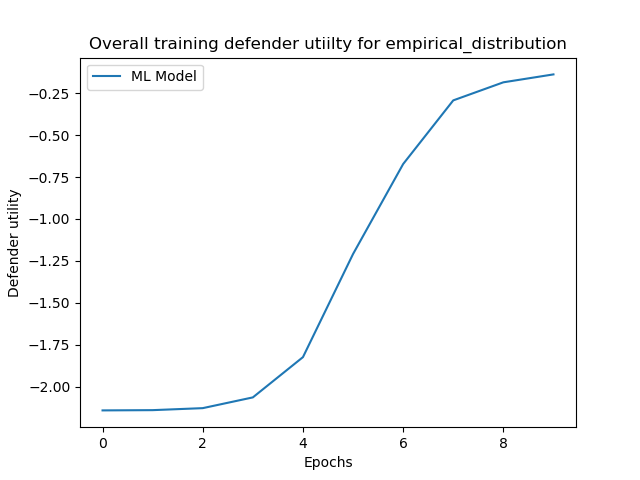
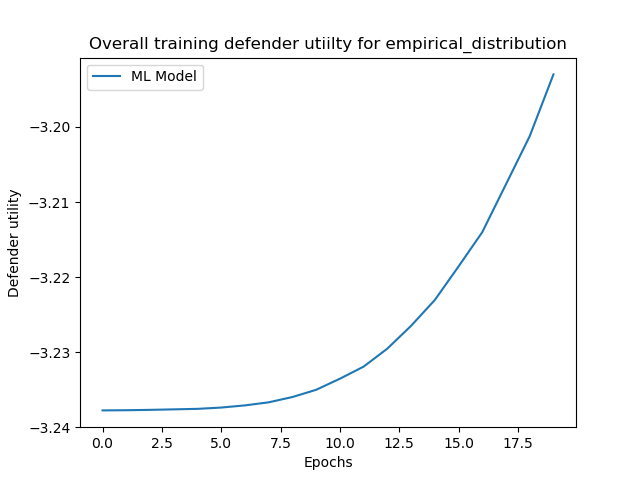
0623

diff --git a/graphData.py b/graphData.py
@@ -76,30 +76,40 @@ def generateFeatures(G, feature_length):
             Fv[node]=G.node[node]['node_features']
     return Fv        
 
-def generatePhi(G, possible_ranges=[(0,1), (2,5), (5,10)]):
+def generatePhi(G, possible_ranges=[(0,1), (2,5), (5,10)], fixed_phi=False):
     
     N= nx.number_of_nodes(G)
     sources=G.graph['sources']
     targets=G.graph['targets']
     
-    for node in list(G.nodes()):
-        
-        if node in sources:
-            range_of_phi=possible_ranges[0]
-        elif node in targets:
-            range_of_phi=possible_ranges[-1]
-        else:
-            range_of_phi=possible_ranges[1]
-        #node_features=np.random.randn(feature_length)
-        # TODO: Use a better feature computation for a given node
-        #r=np.random.choice(len(possible_ranges))
-        #range_of_phi=possible_ranges[r]
-        lower_bounds=range_of_phi[0]
-        upper_bounds=range_of_phi[1]
-        node_phi=np.random.uniform(lower_bounds, upper_bounds)
-        G.node[node]['node_phi']=node_phi
+    if not fixed_phi:
+        for node in list(G.nodes()):
+            
+            if node in sources:
+                range_of_phi=possible_ranges[0]
+            elif node in targets:
+                range_of_phi=possible_ranges[-1]
+            else:
+                range_of_phi=possible_ranges[1]
+            #node_features=np.random.randn(feature_length)
+            # TODO: Use a better feature computation for a given node
+            #r=np.random.choice(len(possible_ranges))
+            #range_of_phi=possible_ranges[r]
+            lower_bounds=range_of_phi[0]
+            upper_bounds=range_of_phi[1]
+            node_phi=np.random.uniform(lower_bounds, upper_bounds)
+            G.node[node]['node_phi']=node_phi
     
-    # Generate features
+    else:
+        for node in list(G.nodes()):
+            if node in sources:
+                node_phi=0
+            elif node in targets:
+                node_phi=5 if node == 15 else 0
+            else:
+                node_phi=0
+            G.node[node]['node_phi']=node_phi
+
     phi=np.zeros(N)
     for node in list(G.nodes()):
             phi[node]=G.node[node]['node_phi']
@@ -157,7 +167,7 @@ def returnGraph(fixed_graph=False, n_sources=1, n_targets=1, N_low=16, N_high=20
         return G
 
     elif fixed_graph == 2:
-        layers = [16, 2, 2, 16]
+        layers = [8,4,2,2]
         nodes = list(range(sum(layers)))
         sources, layer1, layer2, targets = nodes[:layers[0]], nodes[layers[0]:layers[0]+layers[1]], nodes[layers[0]+layers[1]:layers[0]+layers[1]+layers[2]], nodes[-layers[3]:]
         transients = nodes[:-layers[3]]
@@ -171,7 +181,6 @@ def returnGraph(fixed_graph=False, n_sources=1, n_targets=1, N_low=16, N_high=20
         G.graph['U']=np.concatenate([np.random.rand(layers[-1]) * 10, np.array([0])])
         G.graph['budget']=budget
         
-        G.node[10]['utility'], G.node[11]['utility'] = 10, 10
         sources=G.graph['sources']
         nodes=list(G.nodes())
         transients=[node for node in nodes if not (node in G.graph['targets'])]
@@ -328,7 +337,7 @@ def generateSyntheticData(node_feature_size, omega=4,
 
             # Randomly generate attractiveness
             # phi is the attractiveness function, phi(v,f) for each of the N nodes, v
-            phi=generatePhi(G)
+            phi=generatePhi(G, fixed_phi=fixed_graph)
             phi=torch.as_tensor(phi, dtype=torch.float)
 
             # Generate features from phi values

diff --git a/pathProbabilities.py b/pathProbabilities.py
@@ -336,14 +336,14 @@ if __name__=='__main__':
     GRAPH_E_PROB_HIGH=0.3
     
     NUMBER_OF_GRAPHS=1
-    SAMPLES_PER_GRAPH=100
+    SAMPLES_PER_GRAPH=50
     EMPIRICAL_SAMPLES_PER_INSTANCE=10
     NUMBER_OF_SOURCES=2
     NUMBER_OF_TARGETS=2
     
     N_EPOCHS=20
     LR=0.005 # roughly 0.005 ~ 0.01 for two-stage; N/A for decision-focused
-    BATCH_SIZE= 5
+    BATCH_SIZE= 1
     OPTIMIZER='adam'
     DEFENDER_BUDGET=2 # This means the budget (sum of coverage prob) is <= DEFENDER_BUDGET*Number_of_edges 
 
